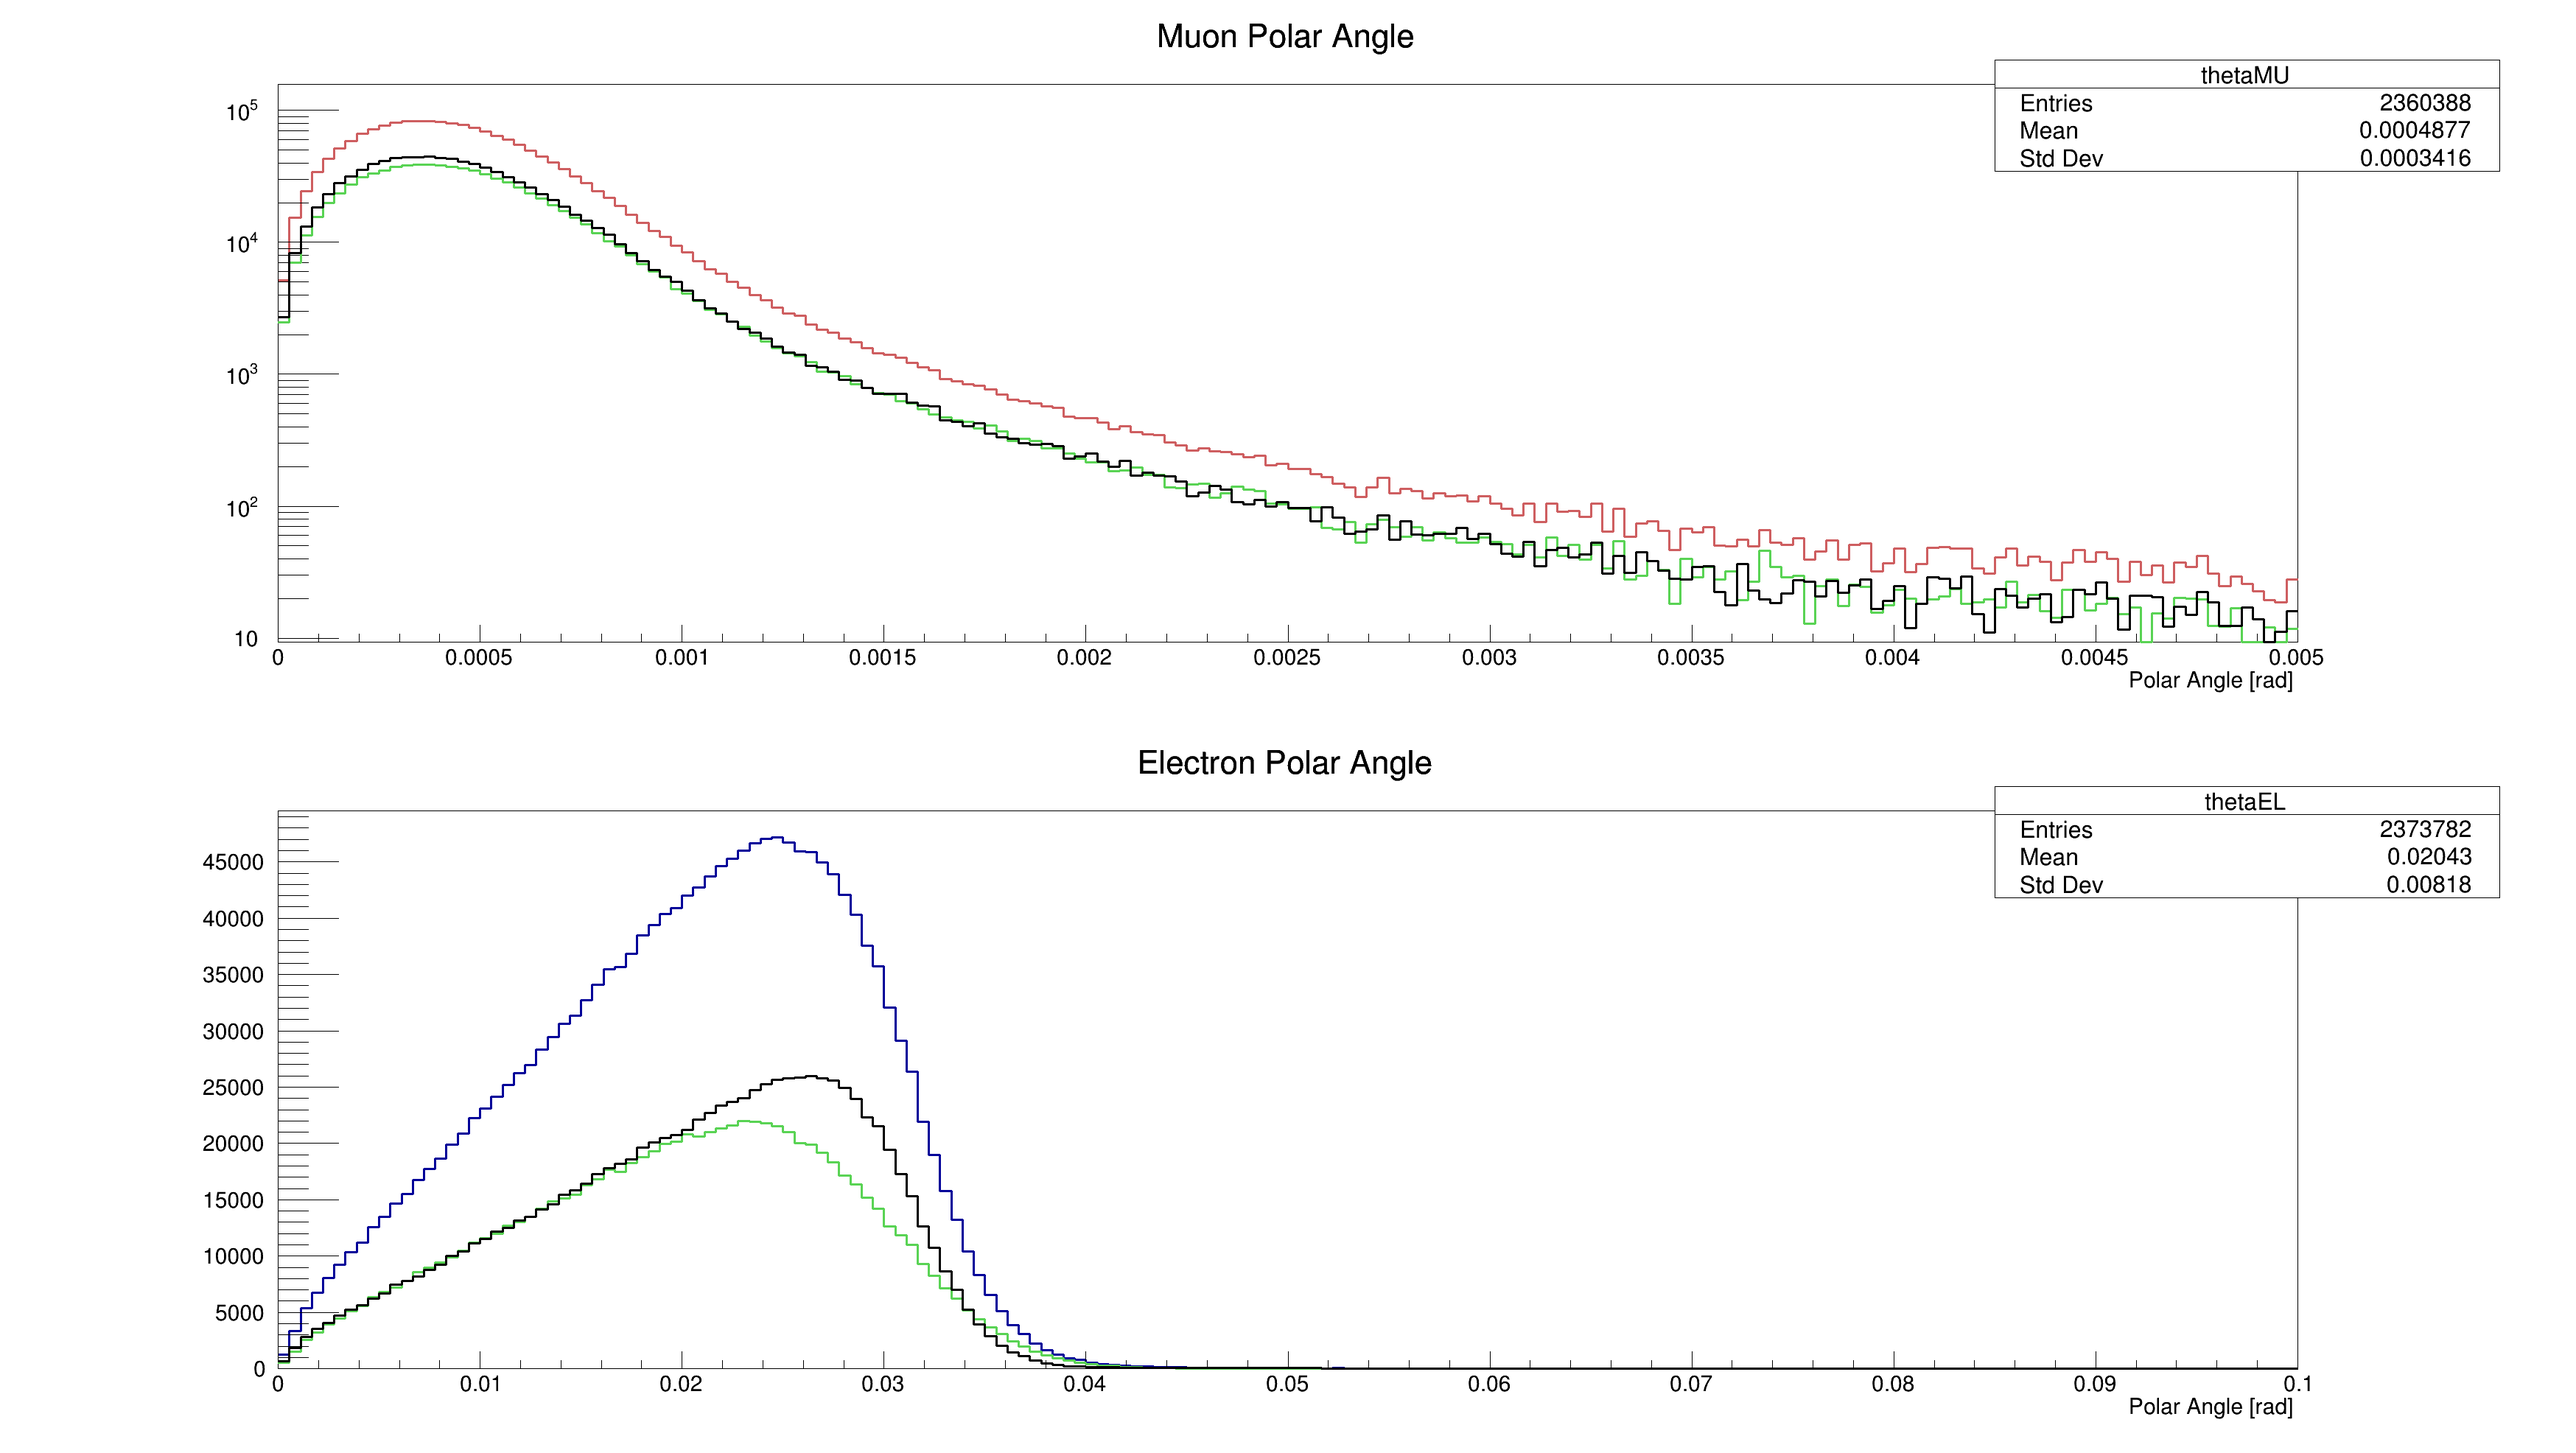
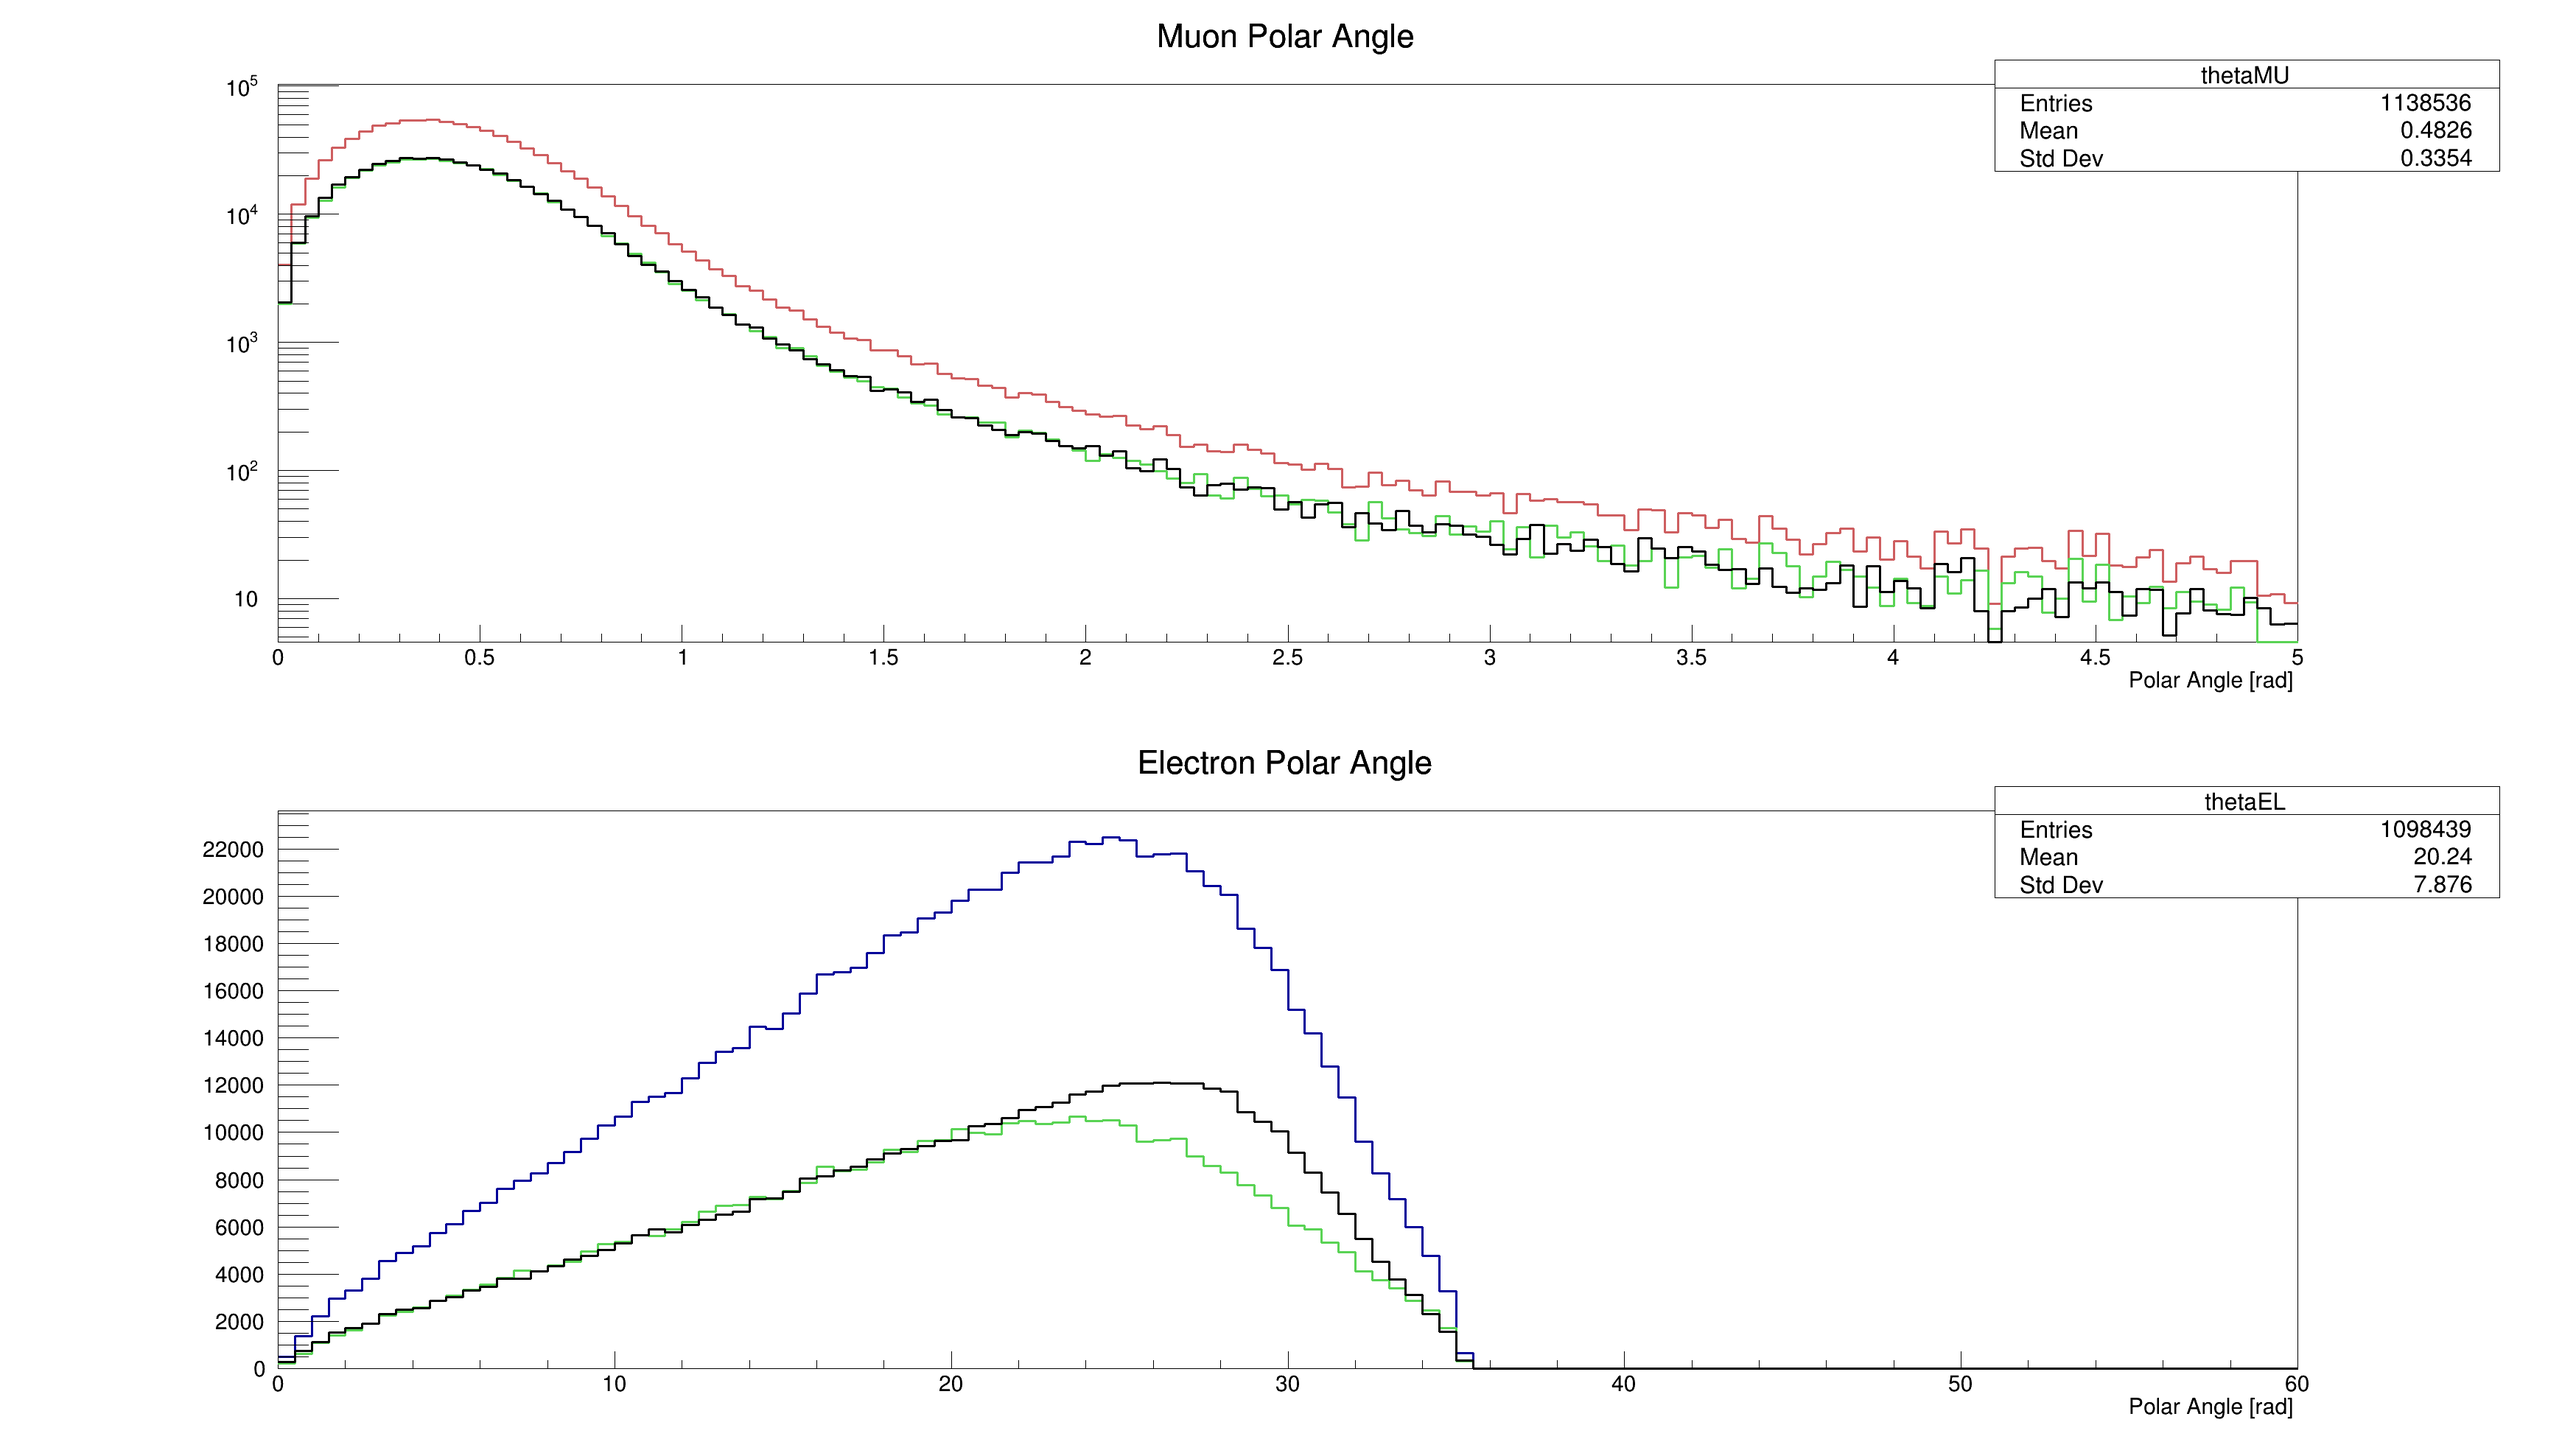
png

diff --git a/nextLO.C b/nextLO.C
@@ -103,7 +103,7 @@ TH2F  *Th_E_el2  = new TH2F("ThEel2" , " Theta el Vs. E_ECAL TAR 2",120,0,60,280
        //prende solo eventi che hanno elettroni nel calorimetro
 double r_mu=sqrt((detKinBeamRot_x_in*detKinBeamRot_x_in)+(detKinBeamRot_y_in*detKinBeamRot_y_in));   
        
-      if (r_mu<5 && E_ECAL>1){
+      if (r_mu<5 && E_ECAL>0.2){
 
         if (abs(detKinBeamRot_cooXmu) < 0.07125 && abs(detKinBeamRot_cooYmu) < 0.07125){
   // per muone          
